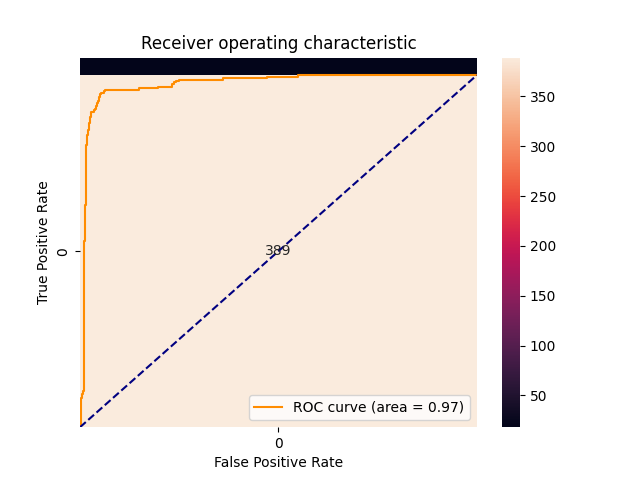
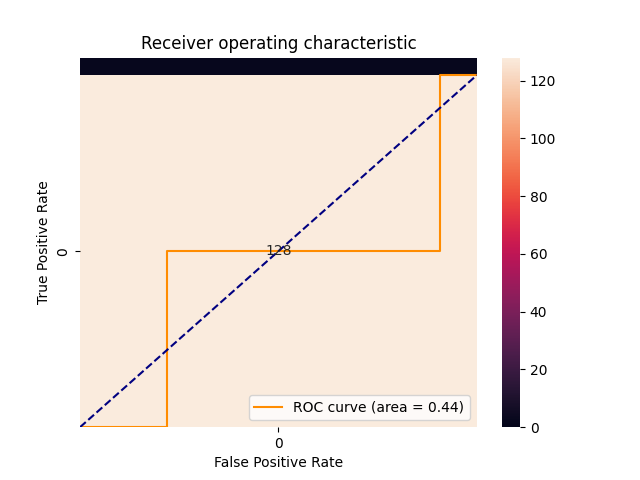
Call 24-11

diff --git a/SVM.py b/SVM.py
@@ -1,6 +1,4 @@
-import os
 import wfdb
-import openpyxl
 import numpy as np
 from scipy.signal import welch
 import matplotlib.pyplot as plt
@@ -9,8 +7,6 @@ from sklearn.feature_selection import f_classif
 from sklearn.model_selection import train_test_split
 from sklearn.svm import SVC
 from sklearn.metrics import classification_report, confusion_matrix, roc_curve, auc
-import pandas as pd
-import seaborn as sns
 from sklearn.metrics import accuracy_score, precision_score, recall_score, f1_score
 
 
@@ -53,7 +49,7 @@ def carrega_dados_mitbih(ini, fim):
 """
 Carregamento dos Dados: Lê os dados de ECG do banco de dados MIT-BIH.
 """
-X, y = carrega_dados_mitbih(100, 104)
+X, y = carrega_dados_mitbih(100, 203)
 
 ######################### Pré-processamento dos Dados #########################
 def extract_features(signals):
